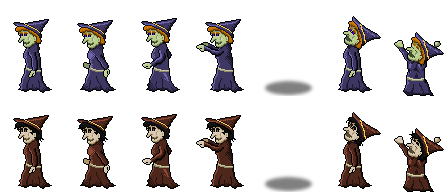
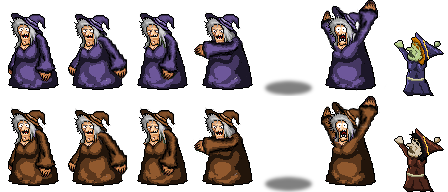
ADD New art for witches

diff --git a/src/WitchEntity.cpp b/src/WitchEntity.cpp
@@ -84,8 +84,8 @@ void WitchEntity::animate(float delay)
 
           for(int i=0; i < 6; i++)
           {
-            generateStar(sf::Color(120, 50, 120, 255));
-            generateStar(sf::Color(120, 0, 120, 255));
+            generateStar(sf::Color(200, 50, 200, 255));
+            generateStar(sf::Color(255, 255, 255, 255));
           }
         }
         else
